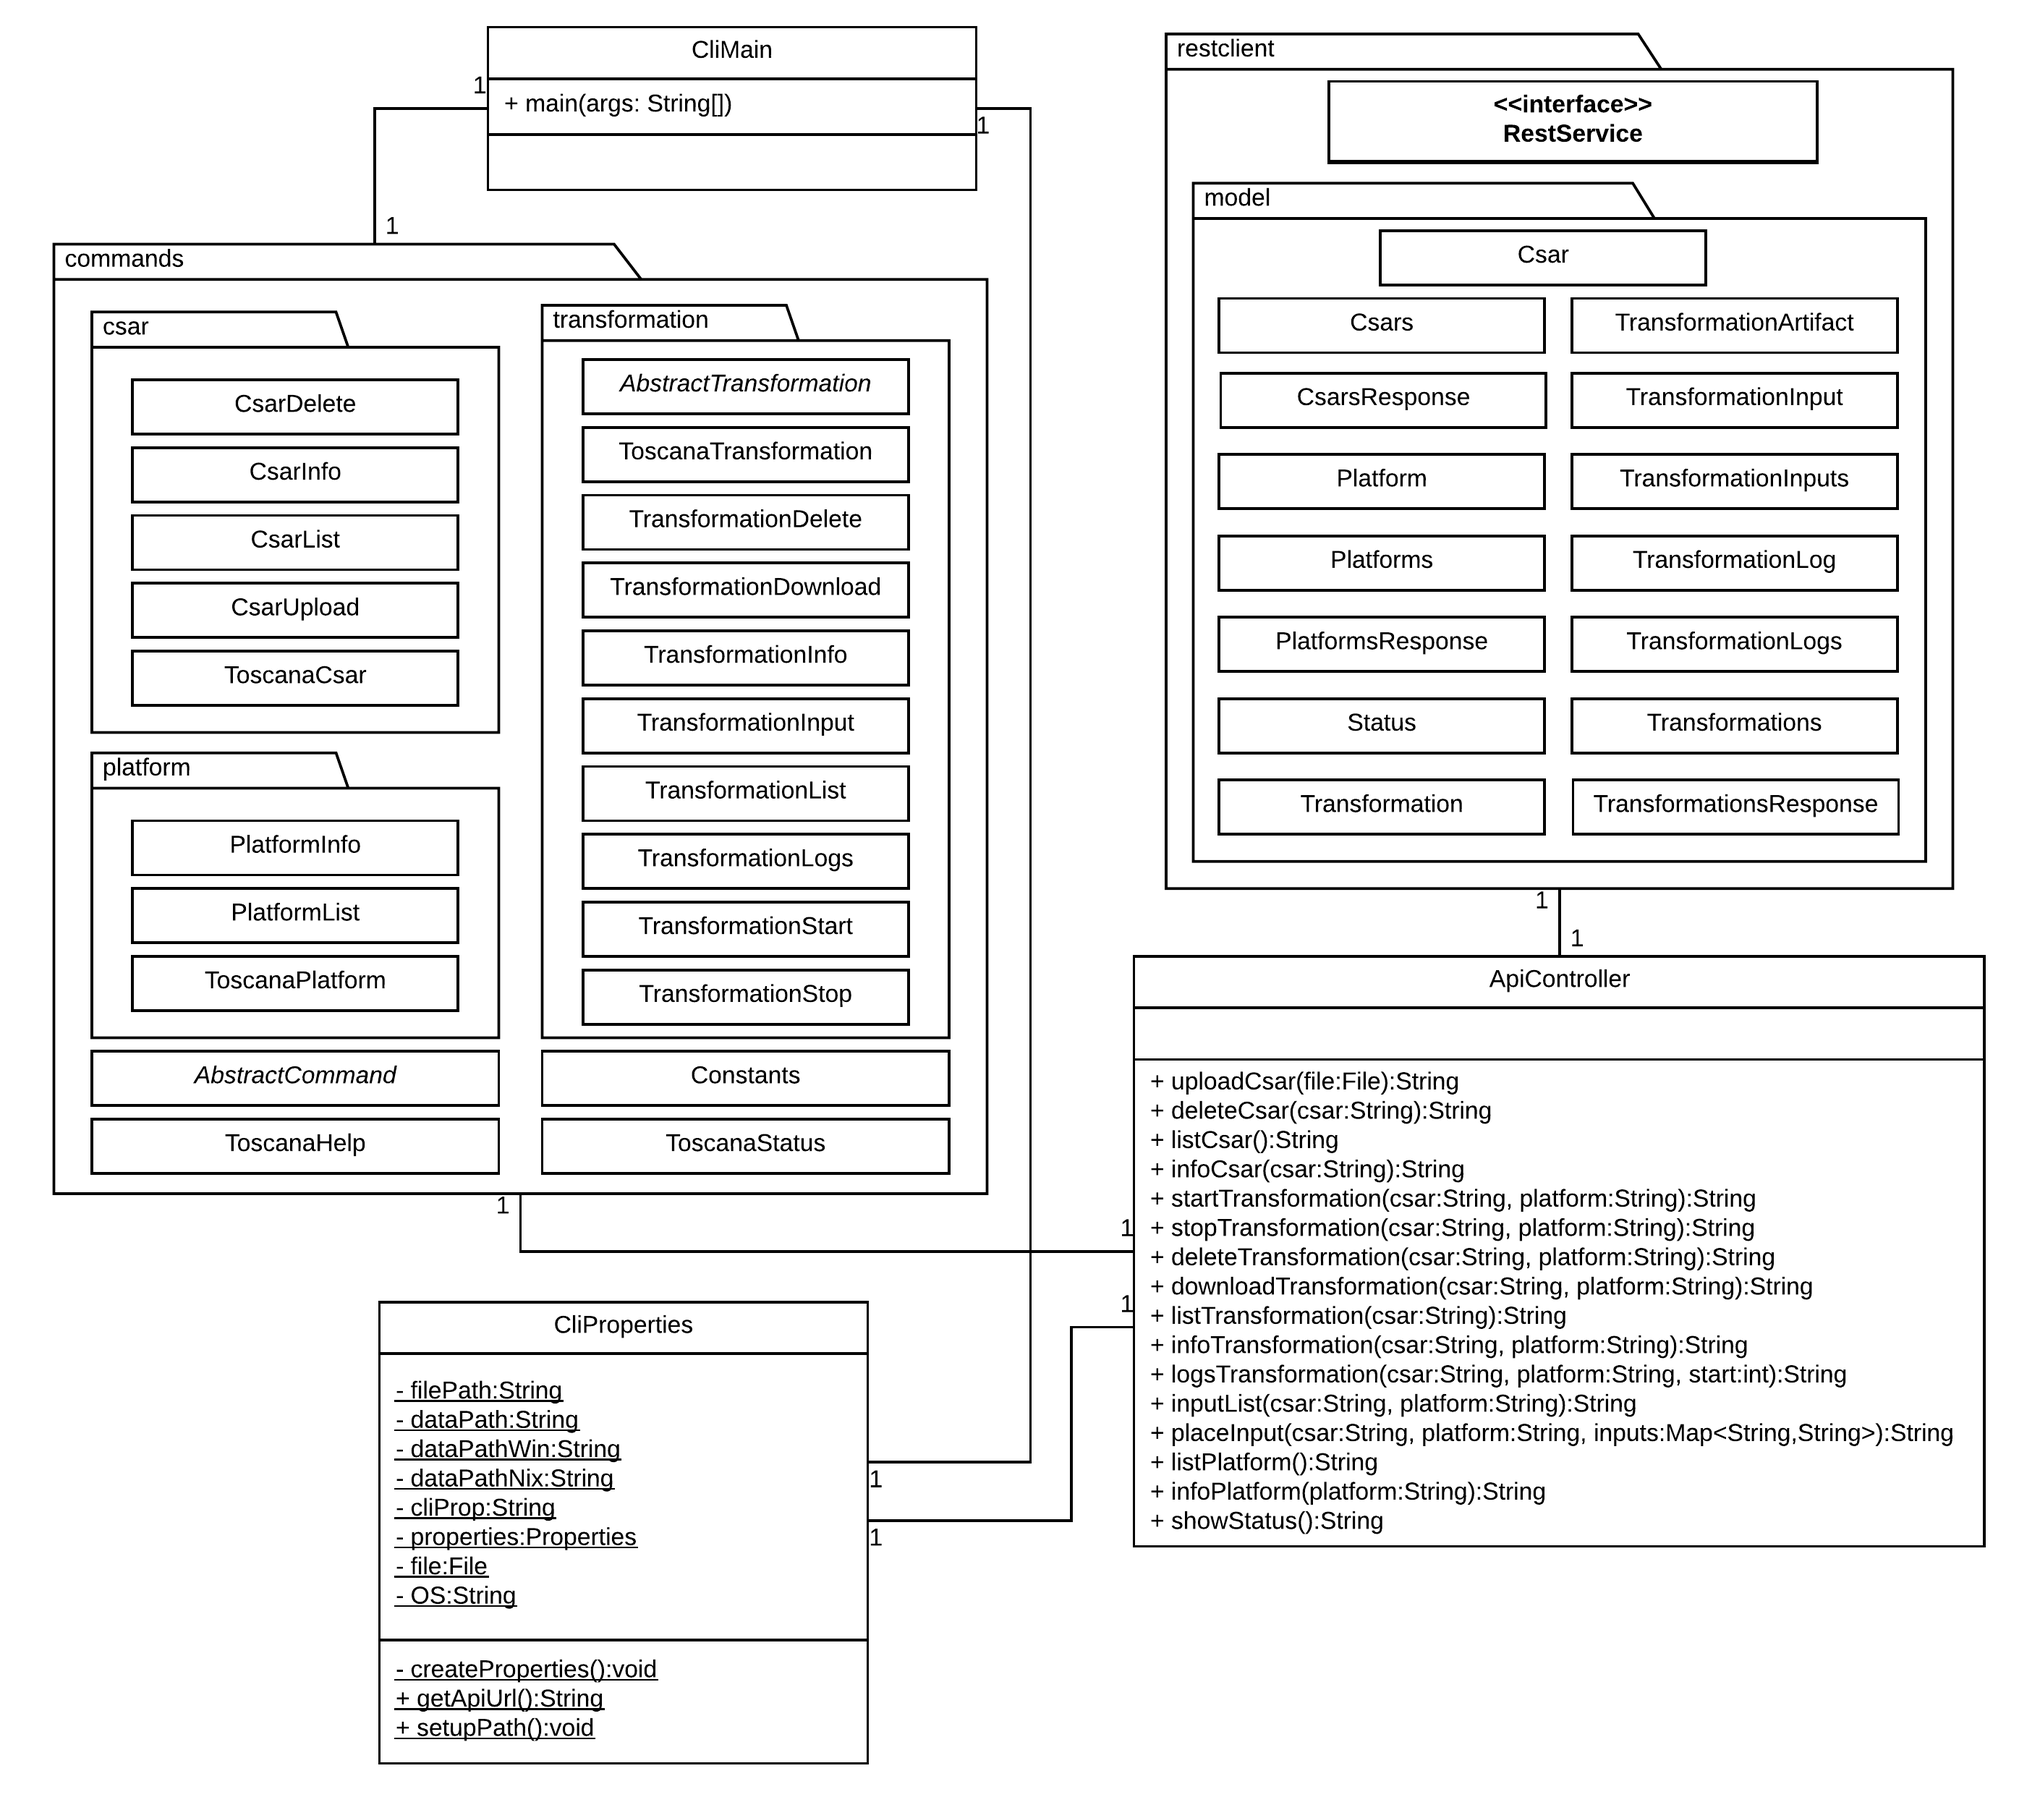
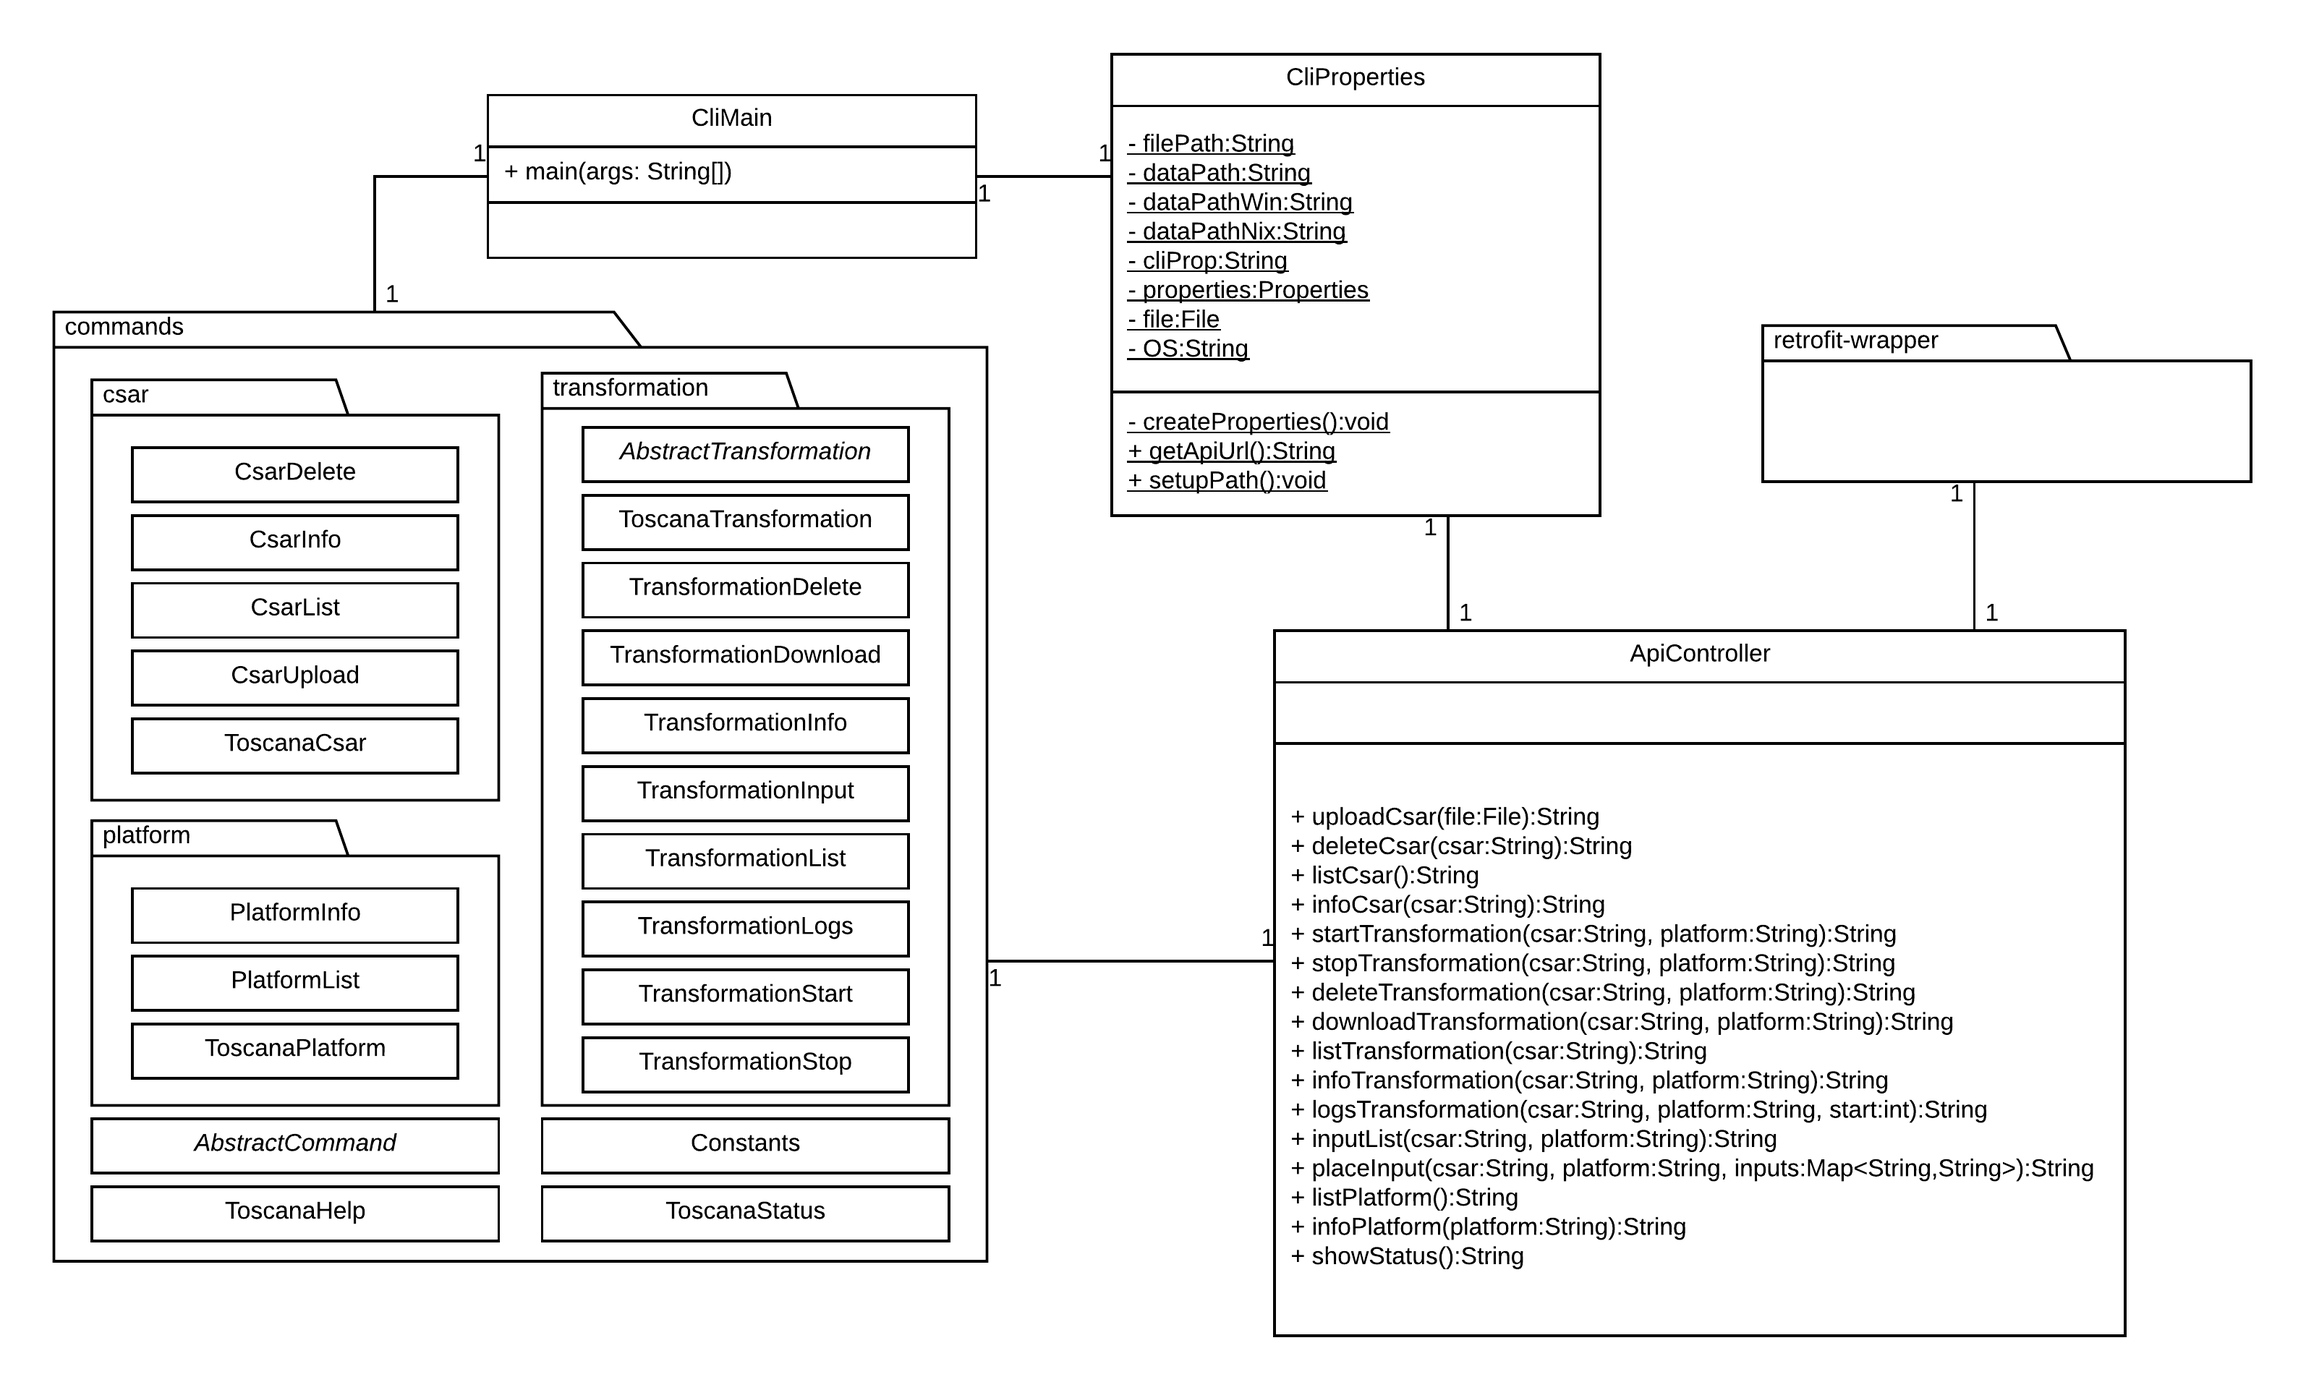
Update of the CLI documents (#634)

Changed region(s): [[0.0, 0.0, 0.9674, 0.9677]]

diff --git a/docs/dev/cli/cli-commands.md b/docs/dev/cli/cli-commands.md
@@ -1,12 +1,11 @@
 ## Build the CLI from Source
-Steps to build the **TOSCAna Command Line Interface** from sources:
+Steps to build the **TOSCAna Command Line Interface** from source:
+
 1. Clone the project.
 
-    `
-    git clone https://github.com/StuPro-TOSCAna/TOSCAna.git
-    `
+    `git clone https://github.com/StuPro-TOSCAna/TOSCAna.git`
 
-2. Enter the cli directory.
+2. Enter the `TOSCAna` directory.
 
     `
     cd TOSCAna/cli
@@ -15,10 +14,10 @@ Steps to build the **TOSCAna Command Line Interface** from sources:
 3. Build the project with:
 
     `
-    mvn package
+    mvn install -Dmaven.test.skip=true
     `
 
-4. You can find the generated jar file `cli-1.0-SNAPSHOT-jar-with-dependencies.jar` in the target folder.
+4. You can find the generated jar file `cli-1.0-SNAPSHOT-jar-with-dependencies.jar` in the cli/target folder.
 
 ## Usage
 How to use **TOSCAna CLI**:
@@ -52,9 +51,9 @@ The main tasks of the CLI are:
 
 ## Supported Commands, Subcommands and Options
 
-Every command and subcommand has these options available: `-v` or `--verbose` and `-m` or `--moreverbose`, parameters of commands are represented as `<name>`. Some other available Options are: `-c` or `--csar`, `-f` or `--file`, `-p` or `--platform` and `-t` or `--transformation`, in the table below you can see where which of these commands is accepted.
+Every command and subcommand has these options available: `-v` or `--verbose` and `-m` or `--moreverbose`, parameters of commands are represented as `<name>`. Some other available options are: `-c` or `--csar`, `-f` or `--file`, `-p` or `--platform` and `-t` or `--transformation`, in the table below you can see where which of these commands is accepted.
 
-If you set the Alias `toscana`, you have to type `toscana` and then the command(s) before you can call a Command or Subcommand. At the end of the Document an example usage of the CLI for Platform Informations is shown.
+If you set the Alias `toscana`, you have to type `toscana` and then the command(s) before you can call a command or subcommand. At the end of the Document an example usage of the CLI for platform information is shown.
 
 Options explanation:
 - `csar`: specifies a CSAR which is available
@@ -88,9 +87,16 @@ Options explanation:
 | `transformation download -c <csarname> -p <platformname>` or `transformation download -t <csarname/platformname>` | downloads the specific Transformation Artifact |
 | `transformation delete -c <csarname> -p <platformname>` or `transformation delete -t <csarname/platformname>` | deletes the specific Transformation from the Transformator |
 
+## Known Issues
+- some Exceptions after wrong  CLI inputs are not caught and displayed (options not supplied where it's needed)
+- after setting inputs, the list of inputs that need to be set does not update
+- after setting all required inputs and trying to start the transformation again, Error 400 Transformation already exists occurs
+- HelpTest.java fails when running with Maven.
+
 ## Example Usage
 ![Class Diagram](img/example_usage.png)
-***Note:*** Example usage of the CLI for Platform Informations
+
+***Note:*** Example usage of the CLI for Platform Information
 
 ## Change API Endpoint
 After you executed the CLI at least once, a config file named `cli.properties` can be found in the created toscana folder. There you can change the API Endpoint to fit your provided REST API Endpoint.

diff --git a/docs/dev/cli/cli-architecture.md b/docs/dev/cli/cli-architecture.md
@@ -6,7 +6,7 @@ This document describes the architecture for the CLI component of the TOSCAna So
 ***Note:*** This diagram was created using LucidChart. The source file can be found [here](https://www.lucidchart.com/invitations/accept/6c4ca4c7-d79a-4fee-82ba-6a79e2971f39).
 
 ## ApiController
-The ApiController trys to perform the tasks it receives from the CliController and calls the corresponding methods of the REST API.
+The ApiController tries to perform the tasks it receives from the CliController and calls the corresponding methods of the REST API. The methods of the REST API are called through the Retrofit wrapper.
 
 The methods shown in the above class diagram have the following functionality:
 * `uploadCsar(file: File):String` - trys to upload the specified CSAR Archive to the Transformator
@@ -28,19 +28,16 @@ The methods shown in the above class diagram have the following functionality:
 
 ## CliMain
 
-The **CliMain** is the main class to initialize the CLI and show the possible commands, subcommands or options that can be executed in the CLI. After the user has made a correct commandline input, the CliController trys to call the corresponding classes which run the methods.
+The **CliMain** is the main class to initialize the CLI and show the possible commands, subcommands or options that can be executed in the CLI. After the user has made a correct commandline input, the CliController trys to call the corresponding classes which run the methods. [The Picocli framework](http://picocli.info/) was used to create the CLI.
 
 ## CliProperties
 
 The **CliProperties** class, creates a cli.properties config file if it doesn't exist and returns the API Url that is used to call the REST API.
 
 ## Commands Package
-The **commands package** contains several classes and three packages: csar, platform and the transformation package. The packages and classes are mandatory to create the Picocli components for the CLI.
+The **commands package** contains several classes and three packages: csar, platform and the transformation package. The packages and classes are mandatory to create the Picocli components of the CLI.
 ToscanaHelp shows the Help Page of the CLI, ToscanaStatus the status of the System and AbstractCommands contains the Options that are used from most of the classes.
 For more detailed Information about the commands and subcommands view [`cli-commands.md`](cli-commands.md).
-
-## Restclient Package
-The **restclient package** contains the Interface class RestClient and the model package containing Modelclasses which are needed for parsing the JSON back to Java Objects.
 
 ## License
 

diff --git a/docs/dev/adr/0020-library-for-cli.md b/docs/dev/adr/0020-library-for-cli.md
@@ -15,7 +15,7 @@ To control the TOSCAna software we need a command-line-interface (CLI) which wil
 ## Conclusion
 
 * Chosen Alternative: *Picocli*
-* supports everything we need
+* supports everything we need to create a CLI like CloudFoundry/Git
 
 ## Pros and Cons of the Alternatives
 
